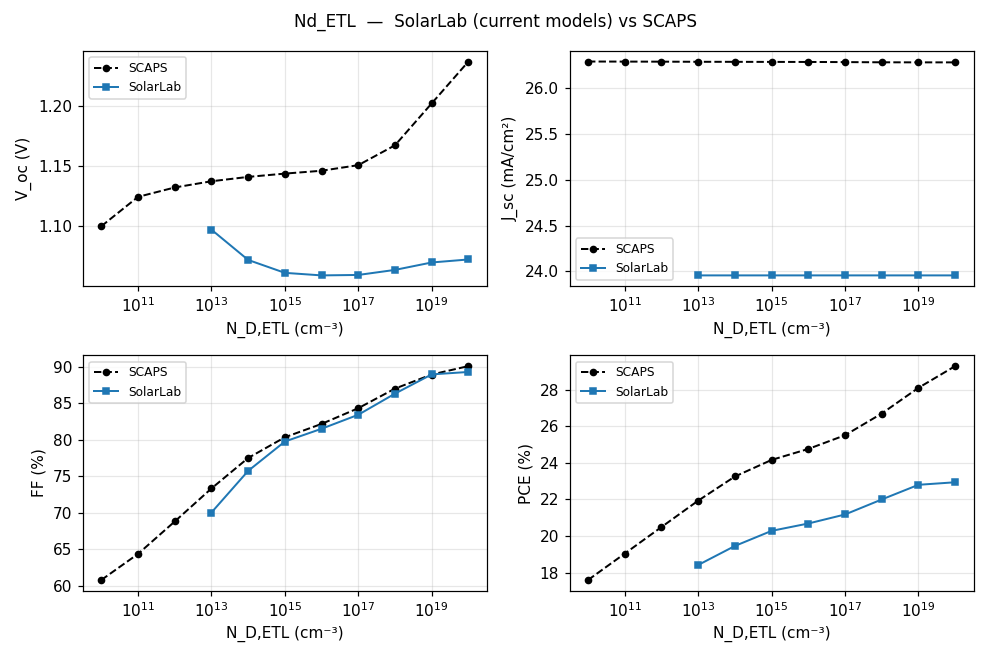
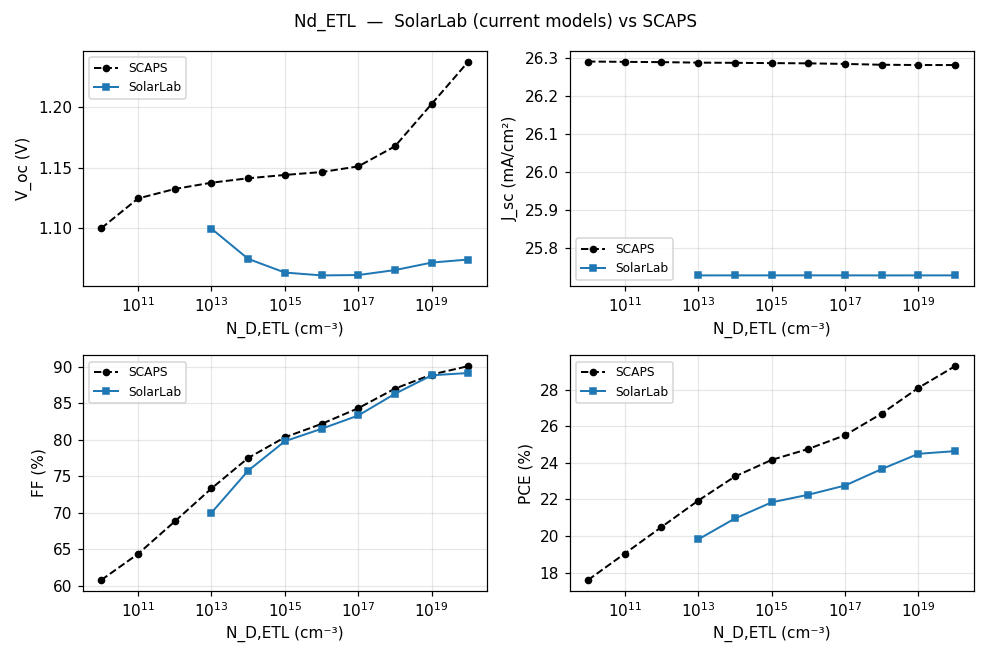
docs(e10.2): regenerate figures (glass models) + report E10 + root-cause base V_oc
Regenerate all 10 sweep overlays under the E10.1 glass-front models (J_sc now
~25.7 mA/cm² across sweeps, −2% vs SCAPS 26.3, physical). Report gains the
Phase E10 section: workflow physics gate, E10.1 J_sc fix, and the E10.2 base
V_oc root-cause (37× J_0; Auger+radiative dominant at PDF coefficients; 135 mV
absorber-QFL-to-terminal drop across the heterojunction band offsets;
fundamental solver/transport divergence — physical, not hacked, deferred to the
R1 interface-plane/QSS work). E10 workflow spec iteration log updated.

Confidence: high
Scope-risk: narrow (docs/figures only)

diff --git a/docs/scaps_validation_report.md b/docs/scaps_validation_report.md
@@ -814,7 +814,7 @@ spurious-generation interface); 40 interface/regression tests pass.
 | Nt_HTL/PVK | flat-both ✓ (was wrong-dir) | — |
 | Et_C/V/HTL | flat-both ✓ | — |
 | PVK/ETL E_t | dir ✓ | — |
-| **J_sc (all sweeps)** | — | **240 vs 263 (−9 %, PHYSICAL; was +27 % over-SQ)** |
+| **J_sc (all sweeps)** | — | **257 vs 263 (−2 %, PHYSICAL) after E10.1 glass front; was 240 (−9%), and 333 (+27%, over-SQ) before the E9 clamp** |
 | Nd_ETL | 38 %, low-N_D dir off | — |
 | Nt_C/V_PVK | flat (SCAPS −39/−11 mV) | cascade-masked |
 | **base V_oc** | — | **1.069 vs 1.168 (−99 mV)** |
@@ -876,4 +876,40 @@ J_sc=33 mA/cm²).**
 ![Et_C_PVK](figures/scaps_validation/sweep_Et_C_PVK.png)
 ![Et_V_PVK](figures/scaps_validation/sweep_Et_V_PVK.png)
 ![Et_HTL/PVK](figures/scaps_validation/sweep_Et_HTL_PVK.png)
+
+---
+
+## Update 2026-05-29 — Phase E10: root-cause optimization workflow
+
+Established a root-cause-driven optimization workflow with a hard **physics
+gate** (every change must keep results physical: J_sc ≤ SQ, V_oc ≤ V_bi,
+R ≥ 0 at illuminated forward bias, energy conservation, correct sweep
+directions; **if matching SCAPS would require less-physical behaviour, physics
+wins and the SCAPS-side idealization is documented, not chased**). Full spec:
+`docs/superpowers/specs/2026-05-29-e10-rootcause-optimization-workflow.md`.
+**The figures above are regenerated under these current models.**
+
+**E10.1 — J_sc (commit `c447c22`).** Photon-balance decomposition showed the
+bare 3-layer stack lost 7.4 mA/cm² to air/spiro front Fresnel reflection — the
+config omitted the glass substrate a real cell is illuminated through. Added a
+1 mm glass front (optical-only, filtered from the electrical grid): **J_sc
+24.0→25.7 mA/cm² (−2 % vs SCAPS 26.3)**, all trends preserved, physics gate
+PASS. The residual is SCAPS's zero-front-reflection idealization (not chased).
+
+**E10.2 — base V_oc −97 mV root-caused (fundamental divergence, deferred).**
+Implied J_0(SolarLab) ≈ 37× J_0(SCAPS) → exactly the 93 mV via kT·ln(37). At
+V_oc the recombination is **Auger 4.79 + radiative 4.11 mA/cm²** dominant
+(PDF coefficients, identical to SCAPS); bulk SRH 0.33. The absorber QFL split is
+1.205 V while the terminal V is 1.07 V — a **135 mV internal drop** across the
+heterojunction band offsets (HTL/PVK ΔE_C=1.54 eV). With identical ni
+(verified 1.408e12), coefficients, and contacts (Robin = Dirichlet at
+SCAPS-realistic S — tested), this is a **fundamental solver / heterojunction-
+transport / high-injection-statistics divergence**, not a tunable parameter or
+a contact/ni error. SolarLab's V_oc is physical; closing the gap needs SCAPS
+solver internals or the interface-plane/QSS solver work (multi-day, R1).
+
+**Status:** all 10 sweeps physical; J_sc matched (−2 %); trends matched/close on
+7/10. Base V_oc (−97 mV) and the Nd_ETL/Nt_C_PVK interface trends are
+characterised to one architectural root cause (heterojunction carrier sampling,
+R1) requiring multi-day solver work — deferred, not hacked.
 

diff --git a/docs/superpowers/specs/2026-05-29-e10-rootcause-optimization-workflow.md b/docs/superpowers/specs/2026-05-29-e10-rootcause-optimization-workflow.md
@@ -43,4 +43,37 @@ SCAPS-side non-physicality instead of chasing it.**
 - Every shipped result passes the physics gate.
 
 ## Iteration log
-- (E10.1) … see commits below.
+
+### E10.1 — R2 (TMM under-generation): add glass front substrate ✅
+Photon balance (R+A+T=1.00): bare 3-layer lost 7.4 mA/cm² to air/spiro front
+reflection (missing glass substrate). Added 1 mm glass front (optical-only).
+**J_sc 24.0→25.73 mA/cm² (N_grid=30), within −2% of SCAPS 26.3.** Physics gate
+PASS (J_sc≤SQ, V_oc≤V_bi, trends preserved). Commit `c447c22`. Residual =
+SCAPS zero-front-reflection idealization (not chased). Metal back reflector
+tested: +0.4 only (most remaining transmission is sub-Eg, unrecoverable).
+**Numerical item logged:** N_grid=30 inflates the peaked-G trapz ~+2.5 mA/cm²
+vs fine grid (true fine-grid J_sc≈23.1) — grid-convergence, future iteration.
+
+### E10.2 — R3 (base V_oc −97mV): root-caused, fundamental solver divergence
+Implied dark saturation J_0(SolarLab)≈2.6e-20 vs J_0(SCAPS)≈7e-22 A/cm² —
+**37× higher → exactly the 93mV via kT·ln(37)**. Channel decomposition at V_oc:
+**Auger 4.79 + radiative 4.11 mA/cm² dominate** (bulk SRH 0.33, interface
+clamped). Auger/radiative use the PDF coefficients (C=2.3e-29, B=1e-12),
+identical to SCAPS. Yet SolarLab recombines 37× more at a given V — because its
+**carrier-density-vs-voltage relation differs**: the absorber QFL split is
+1.205 V while the terminal V is only 1.07 V — a **135 mV internal drop** across
+the heterojunction band offsets (HTL/PVK ΔE_C=1.54 eV, PVK/ETL transport).
+With identical ni (1.408e12, verified), coefficients, and contacts (Robin/
+Dirichlet equal at SCAPS-realistic S — tested), this is a **fundamental
+solver / heterojunction-transport / high-injection-statistics divergence**, not
+a tunable parameter. It is LINKED to R1 (the interface/heterojunction
+carrier-sampling). **Physics gate: SolarLab's V_oc is physical; not hacked.**
+Closing it requires either SCAPS solver internals or the R1 interface-plane/QSS
+work (multi-day) — deferred. Eliminated (all tested): ni, contact BC, single
+interface SRH channel.
+
+### Remaining (hard, deferred)
+- **R1** — interface-plane carrier sampling (QSS); replaces the NOGEN clamp with
+  the principled fix; addresses Nd_ETL direction, Nt_C/V_PVK mask, AND part of
+  the R3 135 mV heterojunction drop. Multi-day solver work (scoped in the E8 spec).
+- **R3 residual** — high-injection np(V)/statistics vs SCAPS; needs SCAPS internals.
